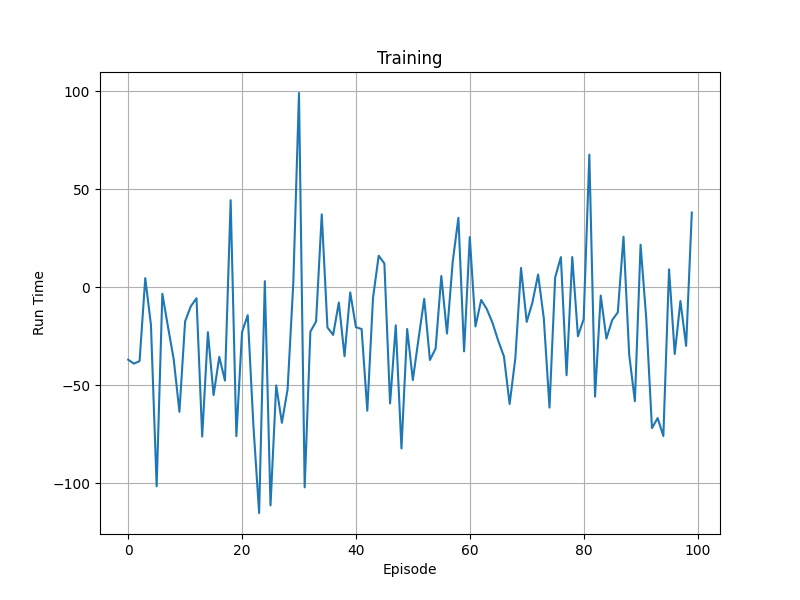
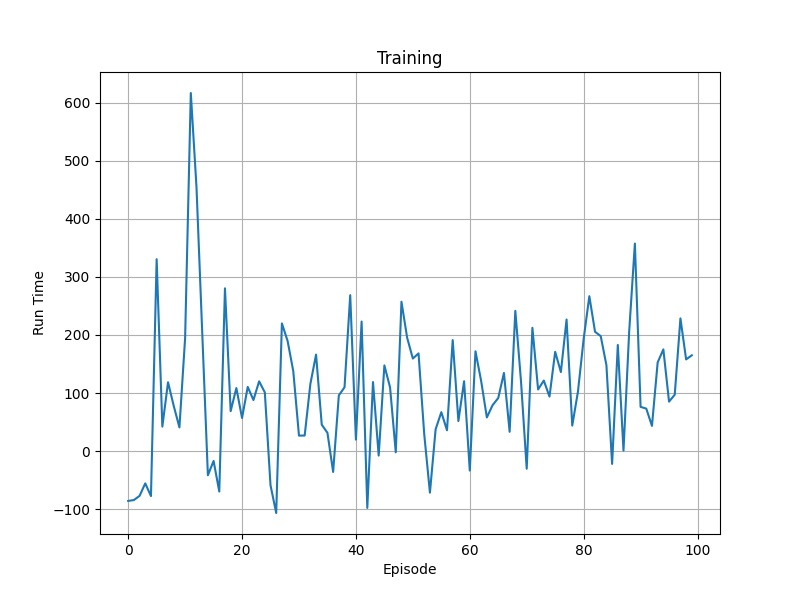
update ac training model

diff --git a/actor_critic/AC.py b/actor_critic/AC.py
@@ -1,12 +1,13 @@
 # -*- coding: utf-8 -*-
 # @Author  : kevin_w
 
+import gc
 import os
 import math
 import argparse
 import torch
 import gfootball.env as gf
-from modify.ac_reward import reward_func
+from modify.ac_modify import reward_func
 from itertools import count
 from agents.ac_agent import ActorCriticAgent
 from util import trans_img, plot_training
@@ -51,6 +52,7 @@ def train(path):
         obs = env.reset()
         image = trans_img(obs[0]['frame'])
         state = torch.FloatTensor([image])
+        next_obs = obs
 
         if torch.cuda.is_available():
             state = state.cuda()
@@ -58,7 +60,7 @@ def train(path):
         eps_reward = 0
         for t in count():
             # get next_state, reward
-            action = agent.select_action(state, obs)
+            action = agent.select_action(state, next_obs, eps)
             next_obs, score, done, _ = env.step(action.item())
             next_img = trans_img(next_obs[0]['frame'])
             next_state = torch.FloatTensor([next_img])
@@ -84,7 +86,7 @@ def train(path):
                 state = next_state
             else:
                 state = None
-            if done or t > 800:
+            if done or t > 1500:
                 break
 
         reward_list.append(eps_reward)
@@ -114,10 +116,10 @@ def train(path):
 
 if __name__ == '__main__':
     # define parameter
-    parser = argparse.ArgumentParser(description="DQN example")
+    parser = argparse.ArgumentParser(description="Actor Critic example")
     parser.add_argument('--seed', type=int, default=1024, metavar='seed')
     parser.add_argument('--learning_rate', type=float, default=0.01, metavar='lr')
-    parser.add_argument('--gamma', type=float, default=0.9, metavar='gamma')
+    parser.add_argument('--gamma', type=float, default=0.8, metavar='gamma')
     parser.add_argument('--batch_size', type=int, default=128, metavar='batch')
     parser.add_argument('--episodes', type=int, default=5000, metavar='episodes')
     parser.add_argument('--log_interval', type=int, default=10, metavar='N',
@@ -125,6 +127,7 @@ if __name__ == '__main__':
 
     args = parser.parse_args()
 
+    gc.collect()
     PATH = './AC_plot/'
     os.makedirs(PATH, exist_ok=True)
     train(PATH)

diff --git a/agents/ac_agent.py b/agents/ac_agent.py
@@ -9,7 +9,7 @@ import torch.nn as nn
 import torch.optim as optim
 from torch.distributions import Categorical
 from nn.nn_layer import ActorCritic
-from modify.ac_action import action_modify
+from modify.ac_modify import action_modify
 
 
 class ActorCriticAgent:
@@ -30,15 +30,21 @@ class ActorCriticAgent:
         self.gamma = gamma
         self.rewards = []
         self.actions = []
+        # TODO
+        # add tensorboardX
 
-    def select_action(self, state, obs):
-        prob, state_value = self.net(state)
+    def select_action(self, state, obs, epo):
+
+        with torch.no_grad():
+            prob, state_value = self.net(state)
 
         c = Categorical(prob)
         sample_action = c.sample()
 
-        # manual modify the action
-        sample_action = action_modify(obs, sample_action)
+        # manual modify the action in 100 episodes
+        # then agent fully control the decision
+        if epo < 100:
+            sample_action = action_modify(obs, sample_action)
 
         if torch.cuda.is_available():
             sample_action = sample_action.cuda()
@@ -49,13 +55,6 @@ class ActorCriticAgent:
             state_value))
 
         return sample_action
-
-        # action = prob.max(1)[1].view(1, 1)
-        # # print(action)
-        # self.actions.append(self.ActionTuple(
-        #     math.log(action),
-        #     state_value))
-        # return action
 
     def loss_function(self):
         R = 0
